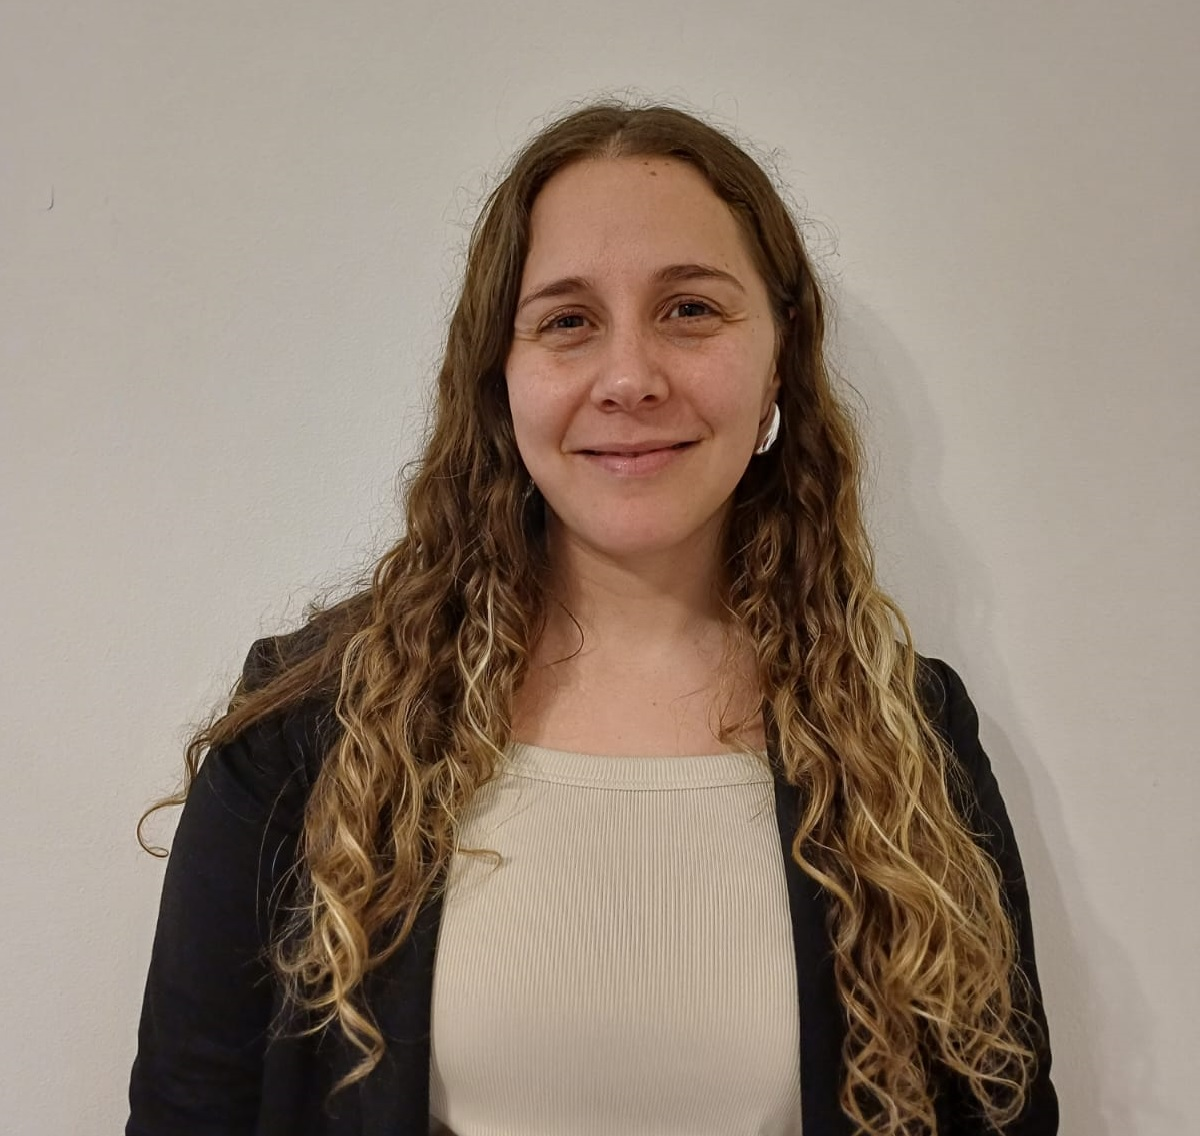
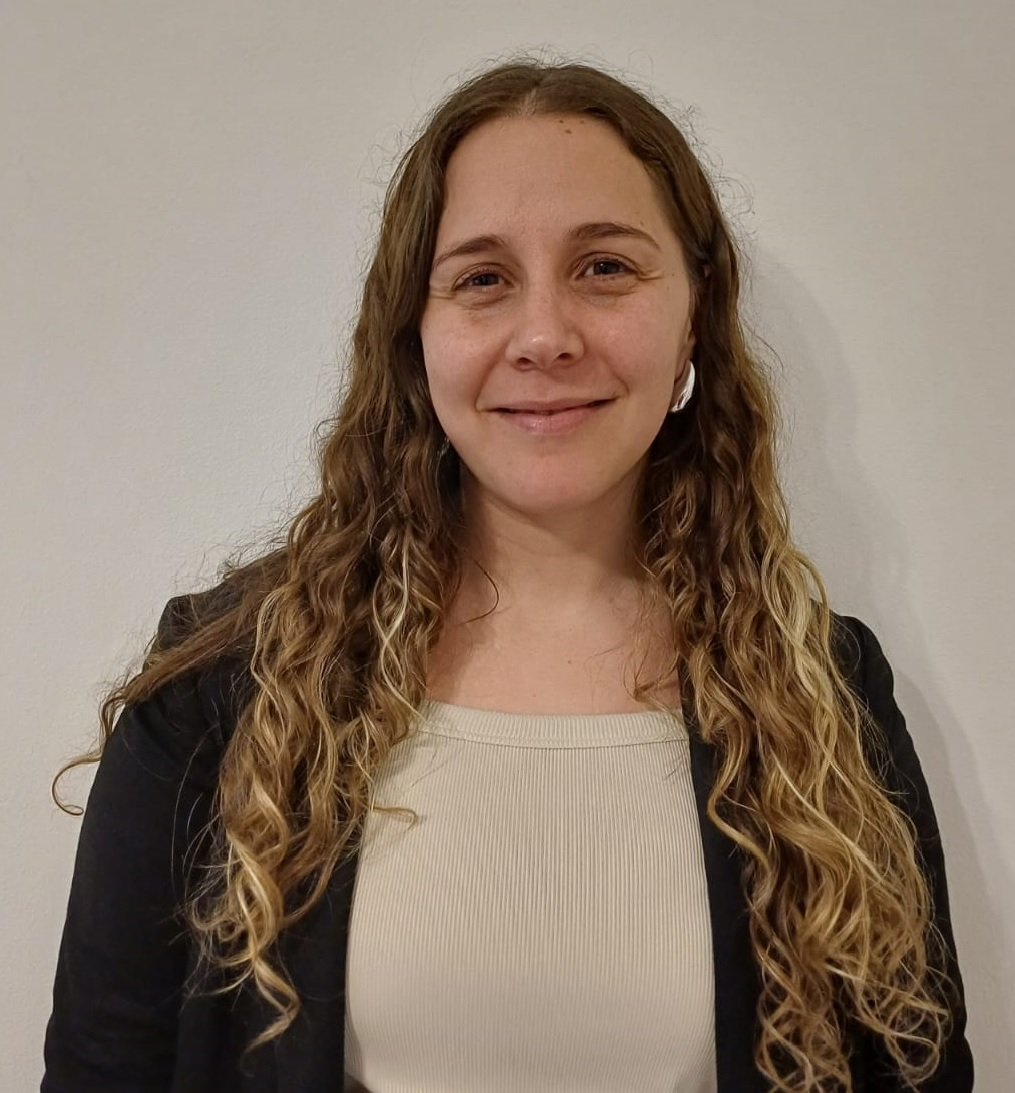
ultimo

diff --git a/src/data/Biografias/bioAilen.js b/src/data/Biografias/bioAilen.js
@@ -2,7 +2,7 @@ export const bioAilen = {
   id: 'bio-ailen',
   orden: 7,
   name: 'Licenciada Ailén Mastrolia (Referente)',
-  img: '/equipo/Sin título.jpg',
+  img: '/equipo/Ailen.jpg',
   text:
     'Es Licenciada en Psicología por la Universidad de Buenos Aires. Formó parte de diversos cursos de formación y extensión en la UBA, sobre infancias, crianza, discapacidad, psicoanálisis de niños y psicología preventiva. Realizó una especialización para tutores con enfoque psicoanalítico Docente en la Materia Introducción a la Psicología en la Diplomatura en Administración de Consorcios, a cargo de Apgra, en Universidad Nacional de Lomas de Zamora. Tiene experiencia como acompañante terapéutica en diversas áreas, mayormente en integraciones escolares y domicilios. Cuenta con experiencia interdisciplinaria. Actualmente se desempeña como referente de equipo en De espacios Acompañamientos Terapéuticos, en seguimiento y supervisión de casos y trabajo con familiares.',
 };
